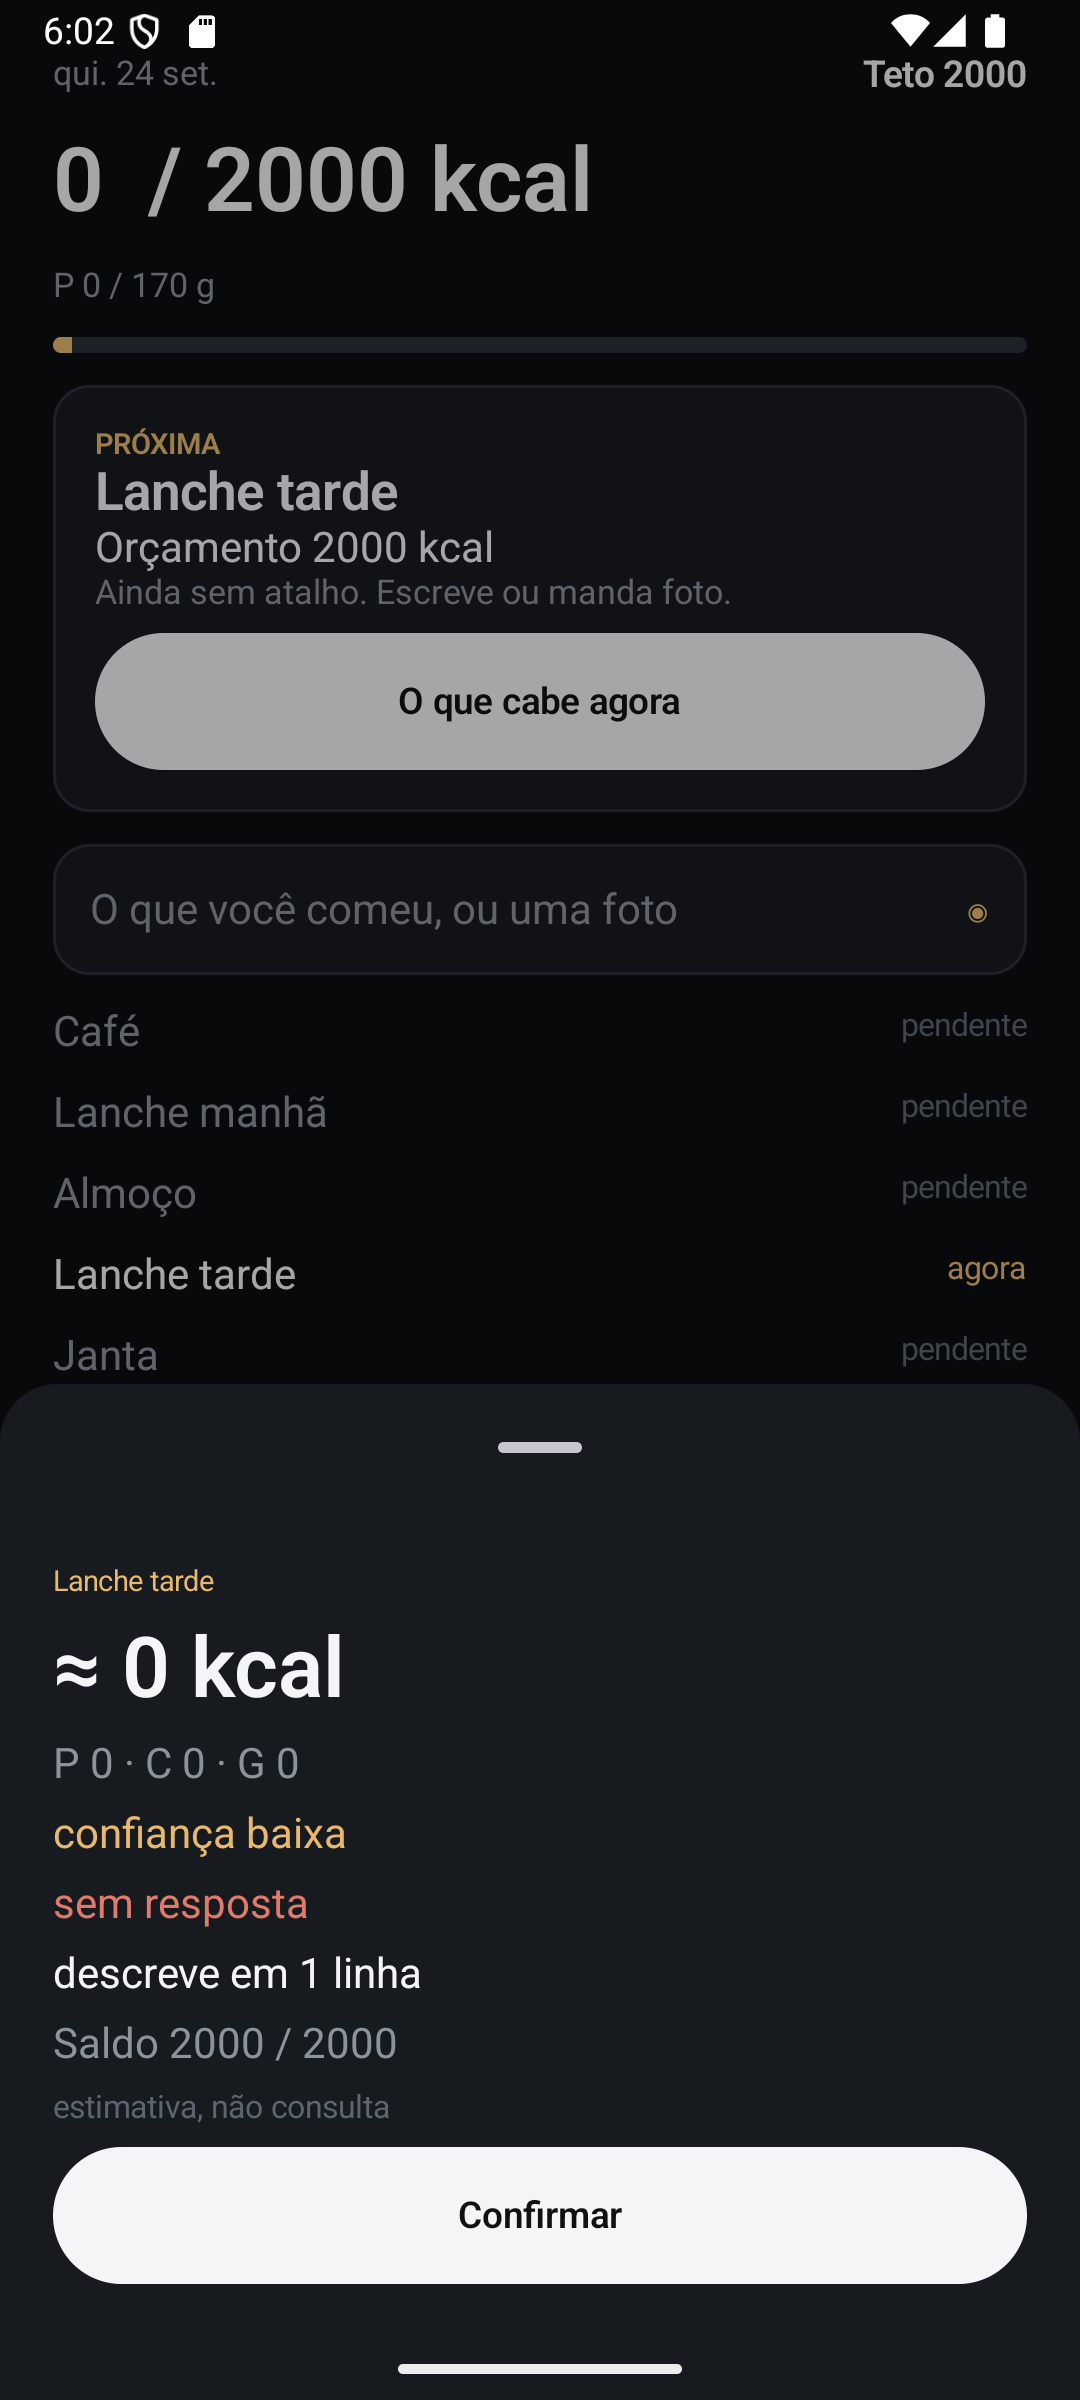
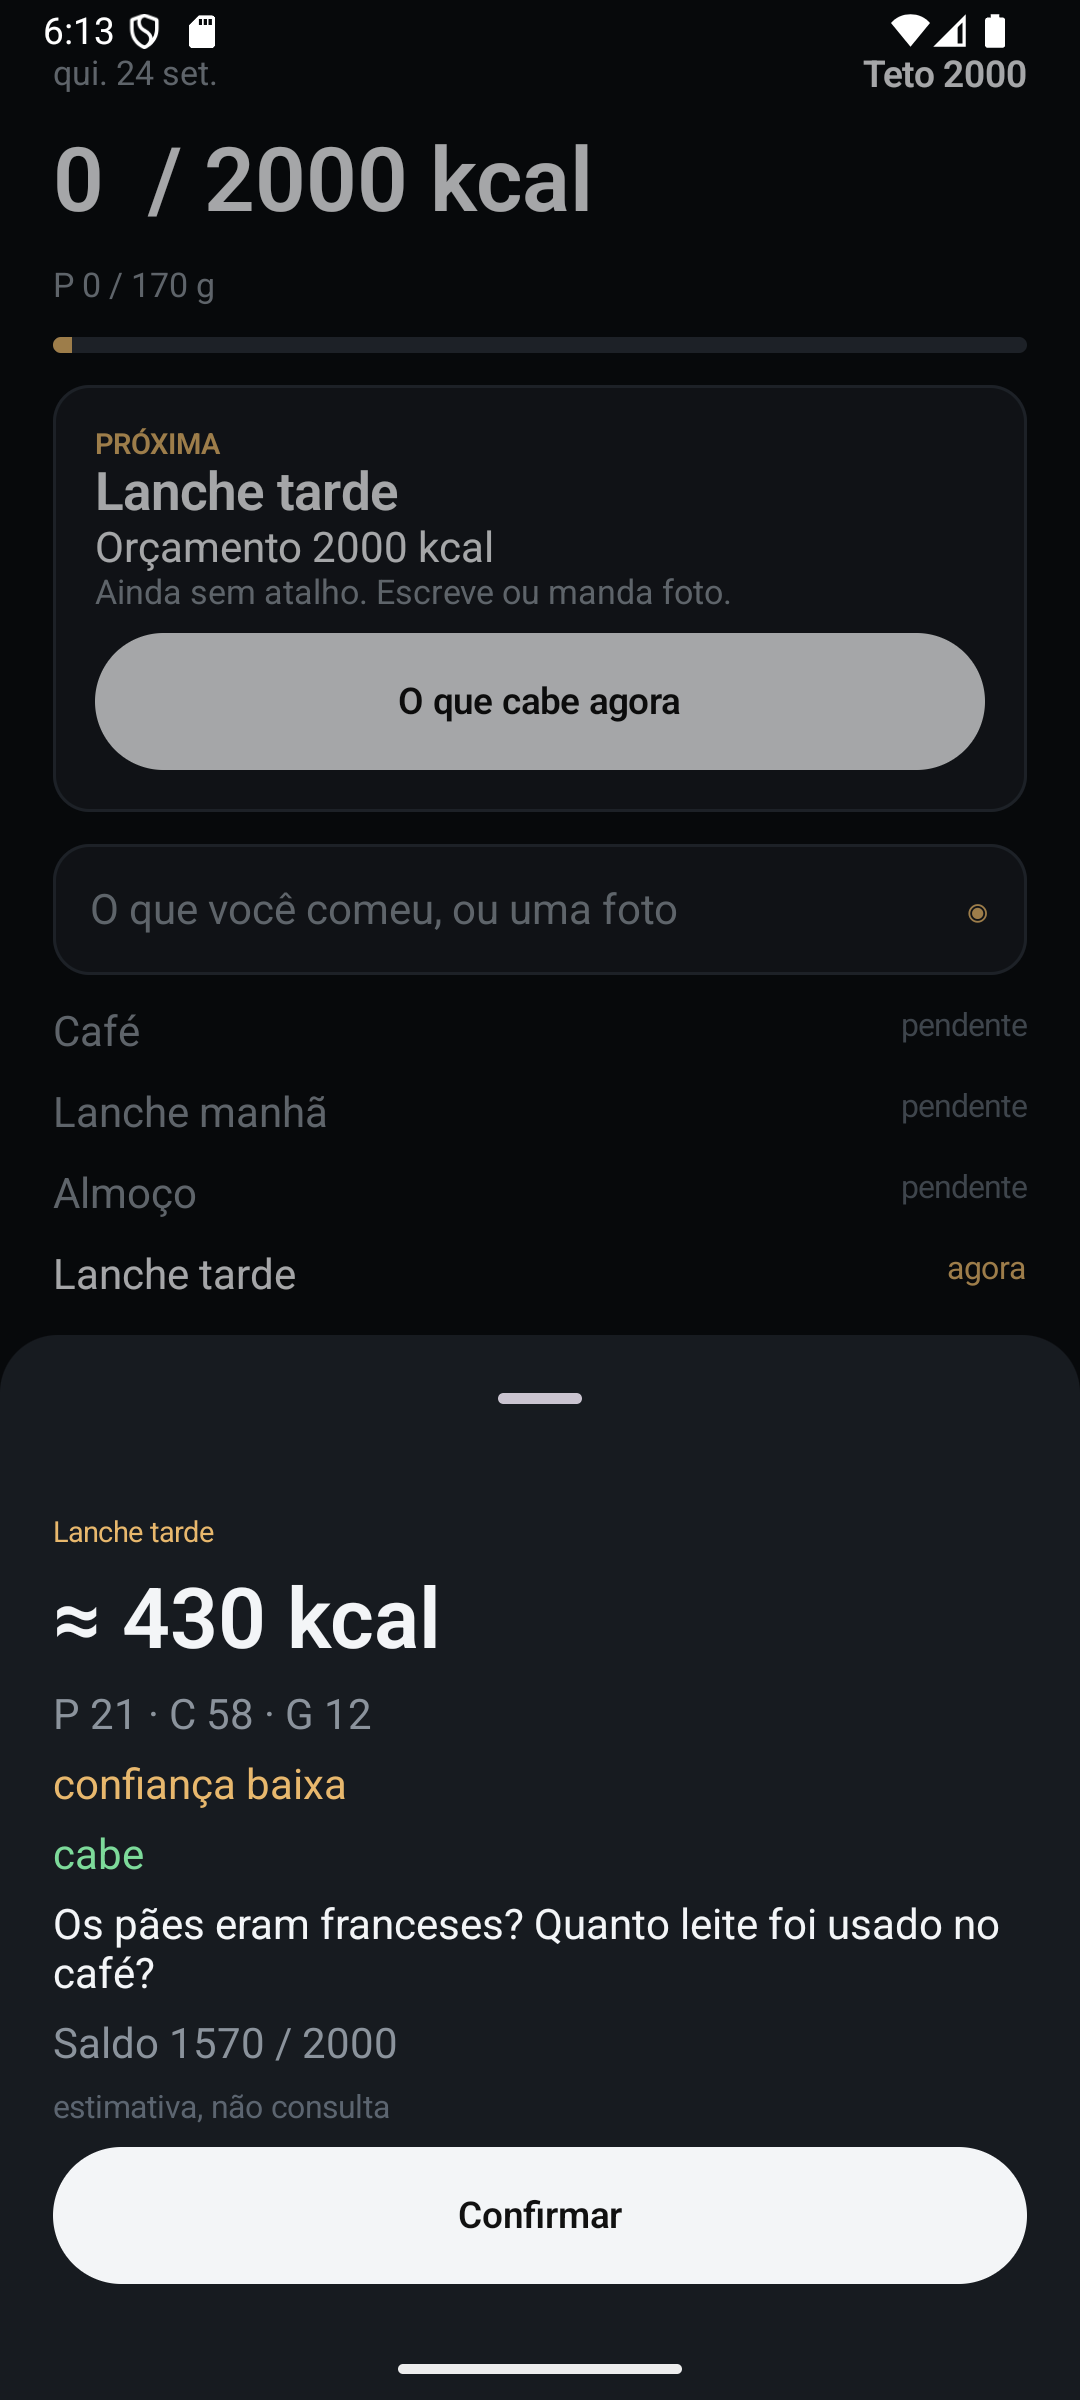
docs: t2 com kcal real do estimate

diff --git a/docs/decisions/002-android-client.md b/docs/decisions/002-android-client.md
@@ -20,7 +20,7 @@ O client mora em `apps/android/`. Namespace `com.nutri.android`. minSdk 26. targ
 
 ## URL
 
-`API_PUBLIC_URL` e `INVITE_CODE` entram no `BuildConfig` a partir de `apps/android/local.properties`, se existirem. Sem essas chaves, o default é o de `.env.example`: `http://127.0.0.1:8080` e `troca-isto`. O header é `X-Invite`. O `.env` não é lido. No emulador, `127.0.0.1` é o aparelho. Nesta máquina `GET http://127.0.0.1:8080/health` não conectou, então o card T2 mostra confiança baixa e a pergunta "descreve em 1 linha". Não foi inventado kcal de refeição.
+`API_PUBLIC_URL` e `INVITE_CODE` entram no `BuildConfig` a partir de `apps/android/local.properties`, se existirem. Sem essas chaves, o default é o de `.env.example`: `http://127.0.0.1:8080` e `troca-isto`. O header é `X-Invite`. O `.env` não é lido pelo client. No emulador, `127.0.0.1` é o aparelho, então o host entra com `adb reverse tcp:8080 tcp:8080`. O servidor local foi subido com `INVITE_CODE=troca-isto` já no processo, para o dotenv não trocar o convite e a chave não ser impressa. O card T2 do texto "2 paes, ovo, cafe com leite" mostrou 430 kcal, P, cabe, e uma pergunta porque a confiança não era alta. O toque em Registrar até o número na tela levou 8,2 s.
 
 ## Persistência
 
